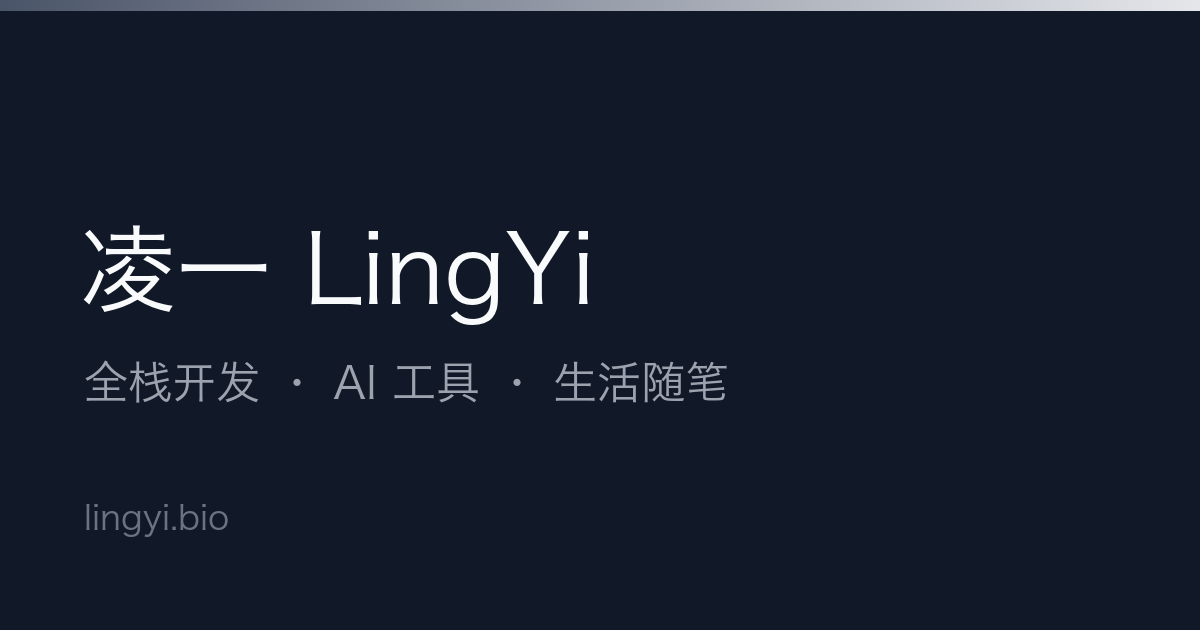
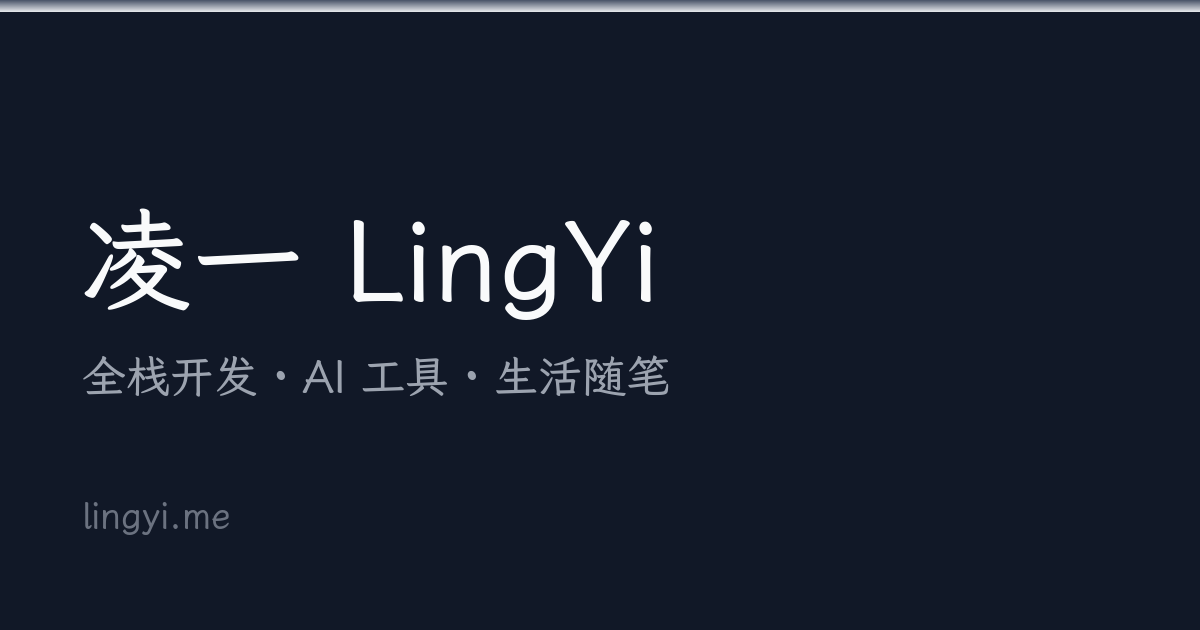
fix: regenerate og image with lingyi.me and shorten site title

diff --git a/src/app/layout.tsx b/src/app/layout.tsx
@@ -12,7 +12,7 @@ import GoogleAnalytics from "@/components/GoogleAnalytics";
 export const metadata: Metadata = {
   metadataBase: new URL(process.env.NEXT_PUBLIC_SITE_URL || 'https://lingyi.me'),
   title: {
-    default: '凌一 LingYi — 全栈开发者 · 技术与生活博客',
+    default: '凌一 LingYi的博客',
     template: '%s | 凌一 LingYi',
   },
   description: '凌一（LingYi）的个人博客：全栈开发实践、AI 工具探索、效率工作流与生活随笔，记录从 0 到 1 的构建过程。',
@@ -22,14 +22,14 @@ export const metadata: Metadata = {
   openGraph: {
     type: 'website',
     locale: 'zh_CN',
-    siteName: '凌一 LingYi 的博客',
-    title: '凌一 LingYi — 全栈开发者 · 技术与生活博客',
+    siteName: '凌一 LingYi的博客',
+    title: '凌一 LingYi的博客',
     description: '全栈开发实践、AI 工具探索、效率工作流与生活随笔，记录从 0 到 1 的构建过程。',
-    images: [{ url: '/og-default.png', width: 1200, height: 630, alt: '凌一 LingYi 的博客' }],
+    images: [{ url: '/og-default.png', width: 1200, height: 630, alt: '凌一 LingYi的博客' }],
   },
   twitter: {
     card: 'summary_large_image',
-    title: '凌一 LingYi — 全栈开发者 · 技术与生活博客',
+    title: '凌一 LingYi的博客',
     description: '全栈开发实践、AI 工具探索、效率工作流与生活随笔，记录从 0 到 1 的构建过程。',
     images: ['/og-default.png'],
   },

diff --git a/src/app/rss.xml/route.ts b/src/app/rss.xml/route.ts
@@ -25,7 +25,7 @@ export async function GET() {
     const rss = `<?xml version="1.0" encoding="UTF-8"?>
 <rss version="2.0">
   <channel>
-    <title><![CDATA[凌一 LingYi — 全栈开发者 · 技术与生活博客]]></title>
+    <title><![CDATA[凌一 LingYi的博客]]></title>
     <link>${siteUrl}</link>
     <description><![CDATA[全栈开发实践、AI 工具探索、效率工作流与生活随笔，记录从 0 到 1 的构建过程。]]></description>
     <language>zh-CN</language>
